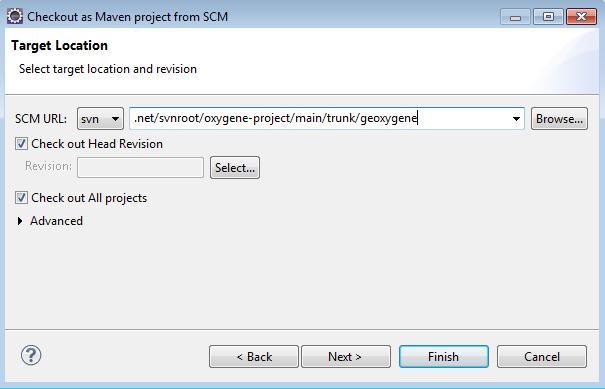
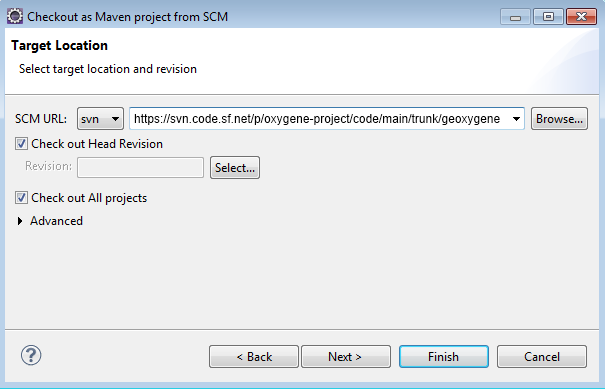
new SVN repository URL

Changed region(s): [[0.2083, 0.2776, 0.8331, 0.3393]]

diff --git a/src/site/tex/guide-installation/3_geoxygene.tex b/src/site/tex/guide-installation/3_geoxygene.tex
@@ -33,7 +33,7 @@ Comme décrits dans les deux captures d’écran ci-dessous, cliquer :
 
 \noindent
 Ensuite comme l'indique la figure suivante, sélectionner \emph{svn} dans la première liste comme SCM URL et indiquer l'adresse du svn de GeOxygene~:\\
-\href{https://oxygene-project.svn.sourceforge.net/svnroot/oxygene-project/main/trunk/geoxygene}{https://oxygene-project.svn.sourceforge.net/svnroot/oxygene-project/main/trunk/geoxygene}, 
+\href{https://svn.code.sf.net/p/oxygene-project/code/main/trunk/geoxygene}{https://svn.code.sf.net/p/oxygene-project/code/main/trunk/geoxygene}, 
 
 \begin{center}
 \includegraphics[width=0.5\linewidth]{geoxygeneEtape3}
